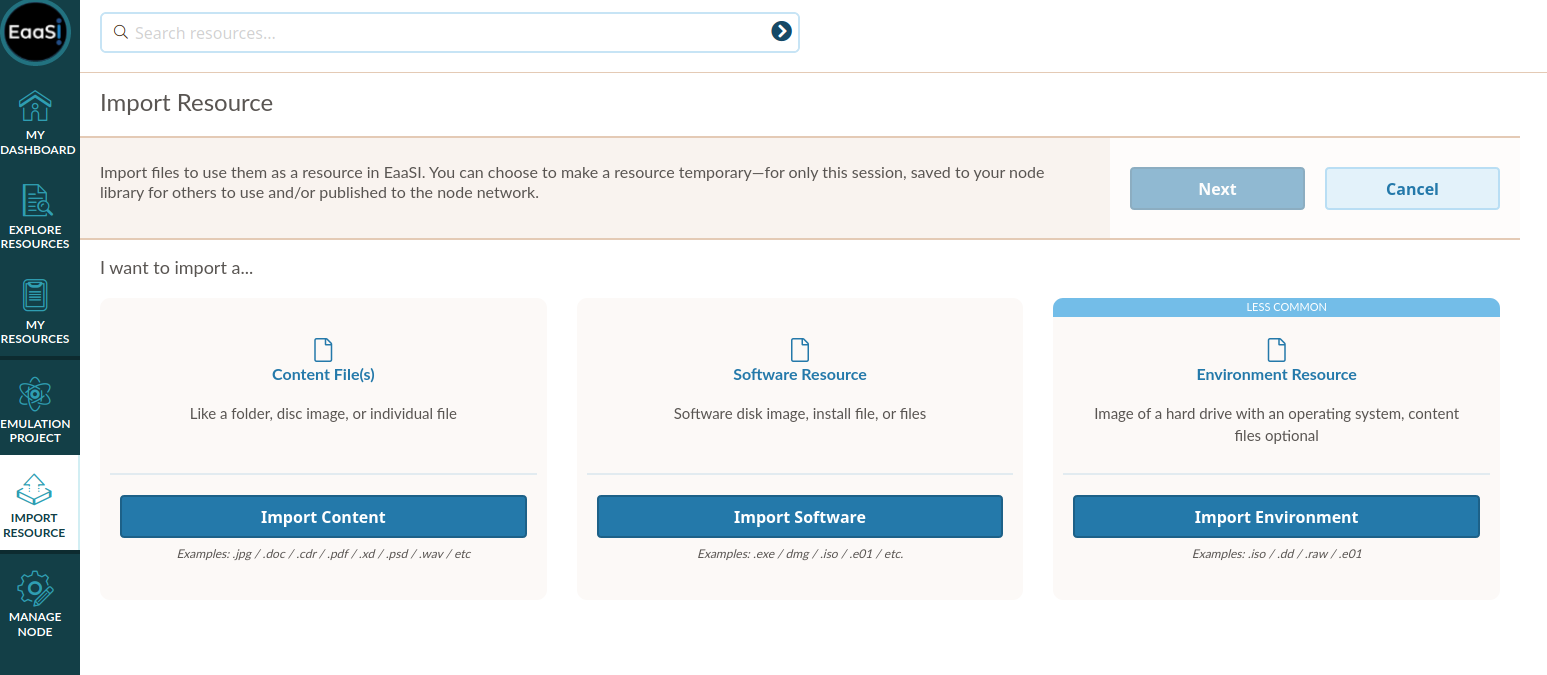
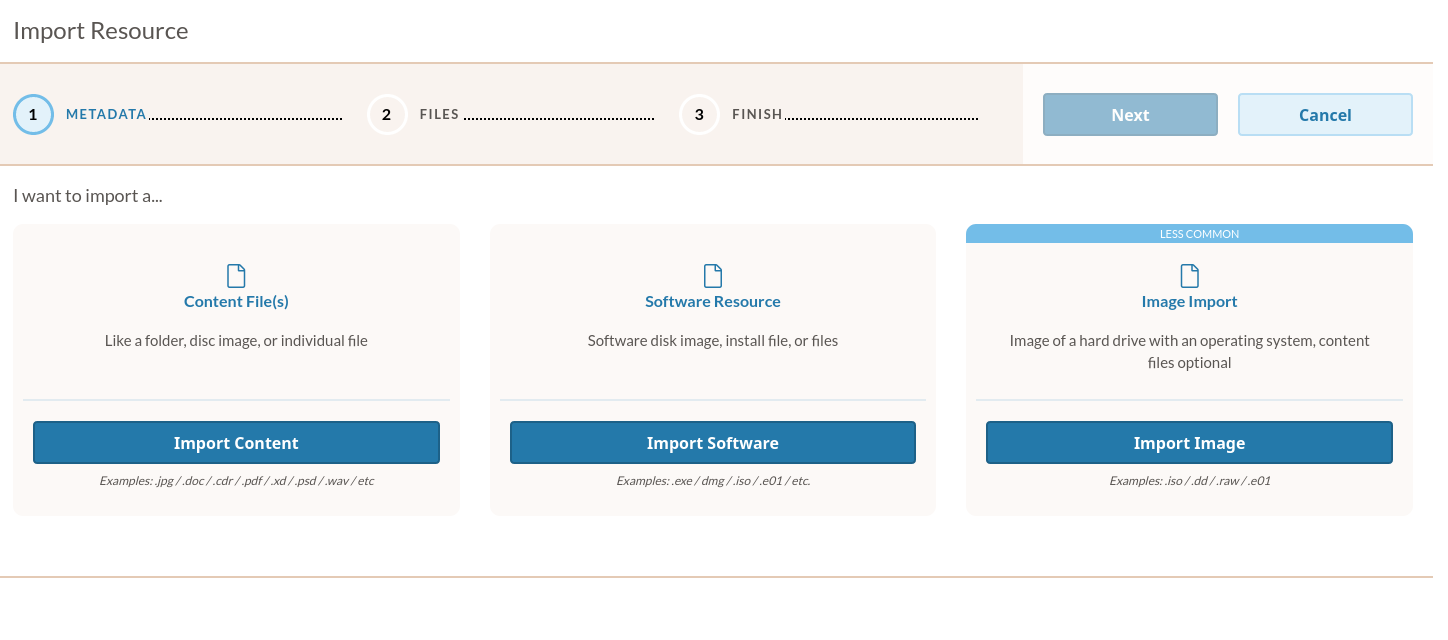
edit Import Image instructions
convert "Import Environment" directions to "Import Image"

add more context for Image resources in glossary, etc

diff --git a/source/guide/import-resource.rst b/source/guide/import-resource.rst
@@ -3,21 +3,21 @@
 .. _add_resources:
 
 .. note::
-  Resources imported by nodes previous to the 2020.03-beta release *should* persist without additional
-  migration steps. Please file a bug report or contact the EaaSI team if encountering missing resources.
+  Resources imported by nodes previous to an EaaSI update *should* persist without additional
+  migration steps. The EaaSI team still always recommends healthy backup practices! Do please file a bug report or contact the EaaSI team if encountering missing resources.
 
 Import Resources
 *******************
 
 .. image:: ../images/visual_designs5.jpg
 
-To import a new Content, Software, or Environment Resource, navigate to the "Import Resource" page using the sidebar
+To import a new Content, Software, or Image Resource, navigate to the "Import Resource" page using the sidebar
 navigation menu.
 
 .. image:: ../images/import_resource_overview.png
 
 From there, please follow the corresponding instructions and guidelines below depending on whether you wish to import :term:`Content`,
-:term:`Software`, or a stand-alone :term:`Environment`.
+:term:`Software`, or a stand-alone :term:`Image`.
 
 .. _import_content:
 
@@ -109,13 +109,25 @@ All notes above regarding Physical Formats and selecting files to create a Conte
 When you have selected Finish Import.
 
 
-.. _import_base:
+.. _import_image:
 
-Importing an Environment
+Importing an Image
 ===========================
 
-To import a new Environment resource (i.e. a disk image that already contains a bootable operating system), 
-select "Import Environment" on the "Import Resources" menu.
+The workflow for importing an :term:`Image` resource is intended to serve one of two specific use cases:
+
+1. The user wishes to import an already-existing virtual machine or server image from an alternative emulation or virtualization application (VirtualBox, VMWare, KVM, etc) into EaaSI. For example: the `BitCurator Environment VM <https://confluence.educopia.org/display/BC/Installation+via+Virtual+Machine>`_.
+
+2. The user has created a disk image of a specific/unique individual computer and wishes to import and run it in EaaSI for assessment, processing, and/or access. For example: `Salman Rushdie's desktop <https://www.newyorker.com/tech/annals-of-technology/digital-life-salman-rushdie>`_, emulated in its (redacted) entirety for users at the Emory University Manuscript, Archives and Rare Book Library.
+
+In both cases, an Image is a complete, bootable object that can be run in emulation without additional configuration or installation of Software.
+
+.. warning::
+  This is not the procedure EaaSI recommends for creating new Environments in general. EaaSI recommends either creating Environments from scratch within the EaaSI platform using :term:`operating system` installation media, replicating existing Environments published in the Network, creating :term:`derivates <derivative>` from Environments already in your node, etc.
+  
+  Importing Images is only recommended/encouraged in one of the use cases described above.
+
+To import a new Image resource, select "Import Image" on the "Import Resources" menu.
 
 Choose the most appropriate system for the environment from the available dropdown menu. These options are provided
 :term:`Hardware Configurations <Hardware Configuration>` that will determine the emulator program and settings EaaSI
@@ -125,7 +137,7 @@ Under the "Disk" section, copy the HTTP link to the base image file (accepted di
 and QCOW2; VHD and VDMK are also accepted but will be converted to QCOW2). If importing from a cloud storage service,
 this *must* be a direct link; consult your service's sharing settings.
 
-.. note::
+.. warning::
   If importing an EWF image, this must be contained in a single E01 file. Multi-file forensic images are not supported.
 
 If the Base Environment is running a KVM-compatible operating system (e.g. Windows XP), you can enable virtualization

diff --git a/source/resources/glossary.rst b/source/resources/glossary.rst
@@ -64,11 +64,12 @@ Glossary
       An :term:`environment’s<environment>` hardware configuration refers to the emulator configuration settings that replicate the hardware
       of a physical computer system. Within EaaSI, these configurations are provided as templates.
       
-  Manager
-      Managers have the middle level of permissions in EaaSI. They are able to manage other users (at the same permission
-      level or lower) and :term:`resources<resource>` (e.g. import :term:`software` or :term:`content`, publish or replicate :term:`environments
-      <environment>`), but can not access :term:`Admin` settings for node management. Managers also retain
-      all permissions/actions of :term:`Configuration Users<configuration user>`.
+  Image
+      The term "image" has been used in various interchanging ways in the EaaSI platform: disk images, emulator "images" (containers), the :ref:`Image Archive <node_components>`. Moving forward, the EaaSI team plans to use this terminology more precisely: Emulators are exchanged via containers, and disk images will always be referred to in full as "disk images".
+      
+      An Image resource refers very specifically to a bootable disk image imported as the basis for an :term:`environment`. It is to refer specifically to either: the necessary disk image/component to import an existing virtual machine from an alternative emulation/virtualization platform (VirtualBox, VMWare, etc) or a unique computing system that must be preserved and presented in its entirety as :term:`content` (for example, `Salman Rushdie's desktop <https://www.newyorker.com/tech/annals-of-technology/digital-life-salman-rushdie>`_).
+      
+      The ultimate goal of the EaaSI program is to abstract Images out of the EaaSI front-end as a resource type. However, they remain currently necessary for the workflows and use cases enumerated above.
             
   Node
       A node is one installation/instance of the EaaSI platform. By default, all imported or created :term:`resources<resource>` stay

diff --git a/source/overview/architecture.rst b/source/overview/architecture.rst
@@ -19,6 +19,7 @@ environment.
 
 .. image:: ../images/visual_designs3.jpg
 
+.. _node_components:
 
 Node Components
 ===============
